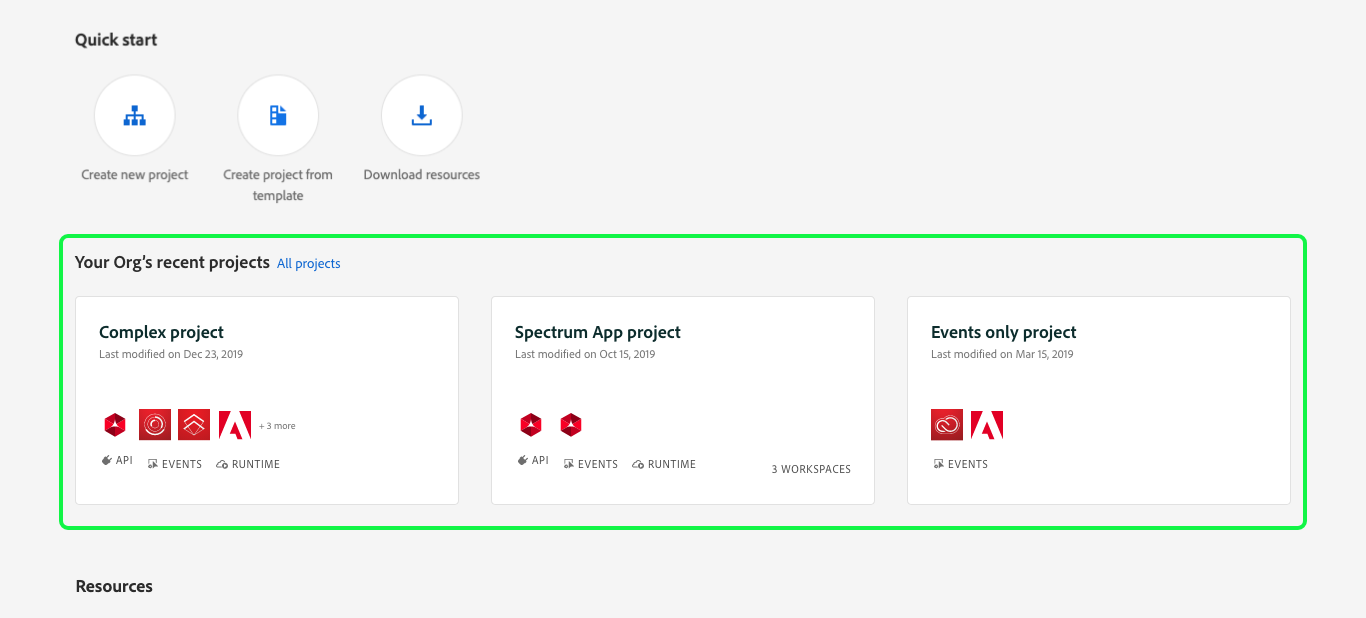
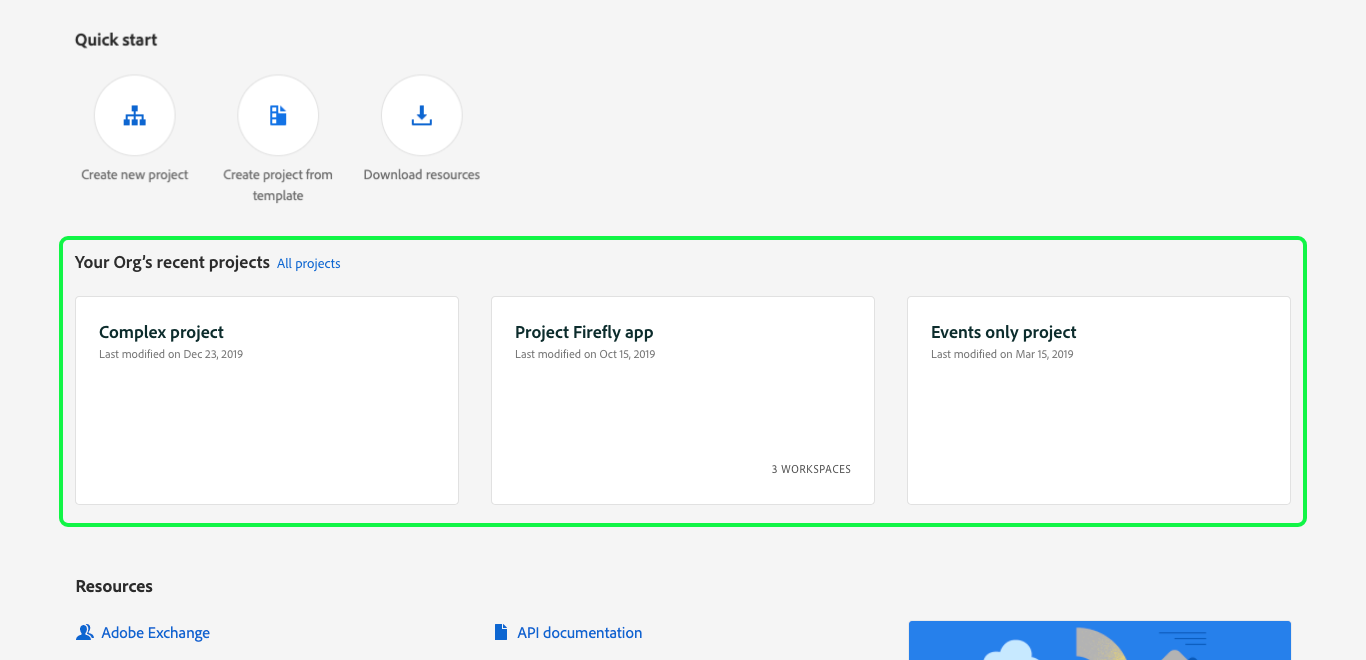
Update getting started and projects screenshots

diff --git a/projects.md b/projects.md
@@ -26,6 +26,20 @@ In order to streamline the creation of projects, Adobe Developer Console provide
 
 To get started, follow the steps provided in the guide for [creating a templated project](projects-template.md).
 
+## View all Projects
+
+The **Projects** screen provides an overview of the projects that have been created by your organization. If you are part of an enterprise organization, this includes all projects that you have access to, not just projects that you have created.
+
+Each project is shown on a card that includes the title of the project, the last modified date, and the number of workspaces, where applicable.
+
+![](images/projects-card-view.png)
+
+You can use the sort functionality to change the order in which projects are displayed or select the list view to see your projects in a list rather than displayed as cards.
+
+![](images/projects-list-view.png)
+
+From the **Projects** screen, you can also begin working on a new project by selecting **Create new project**.
+
 ## Read Only view
 
 As a member of an enterprise organization, you may not have been granted access to all of the services licensed by your organization. For this reason, you may see a *Read Only* tag on certain projects or workspaces within a templated project.
@@ -33,8 +47,6 @@ As a member of an enterprise organization, you may not have been granted access 
 Projects or workspaces marked as *Read Only* are still visible to you, but certain actions, such as downloading, editing, copying client secrets, or initiating the approval workflow will be greyed out and inaccessible to you.
 
 If you believe you are seeing a *Read Only* tag in error, or would like to gain access to certain services and product profiles, please work with your organization's administrators for access.
-
-![](images/projects-read-only.png)
 
 ## Deleting a project
 

diff --git a/getting-started.md b/getting-started.md
@@ -48,13 +48,15 @@ The resources that appear are influenced by where you are in your workflow, upda
 
 The **Projects** screen provides an overview of the projects that have been created by your organization. If you are part of an enterprise organization, this includes all projects that you have access to, not just projects that you have created.
 
-Each individual project is shown on a card that includes the title of the project, the last modified date, the products included in the project and whether the project includes APIs, events, runtime, or a combination.
+Each project is shown on a card that includes the title of the project, the last modified date, and the number of workspaces, where applicable.
 
-You can use the sort functionality to change the order in which projects are displayed, and you can begin working on a new project by selecting **Create new project**.
+You can use the sort functionality to change the order in which projects are displayed or select the list view to see your projects in a list rather than displayed as cards.
 
-For more information on projects, being by reading the [projects overview](projects.md).
+From the Projects screen, you can also begin working on a new project by selecting **Create new project**.
 
-![](images/projects.png)
+For more information on projects, read the [projects overview](projects.md).
+
+![](images/projects-card-view.png)
 
 ## Downloads
 
